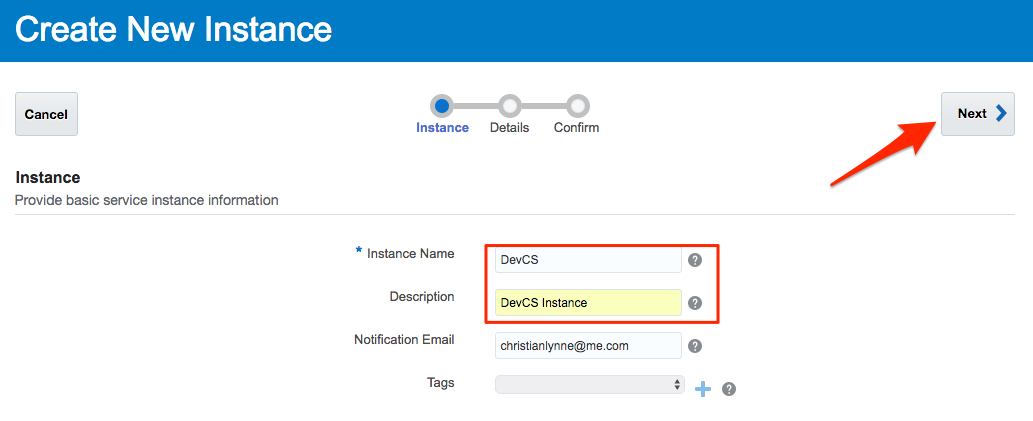
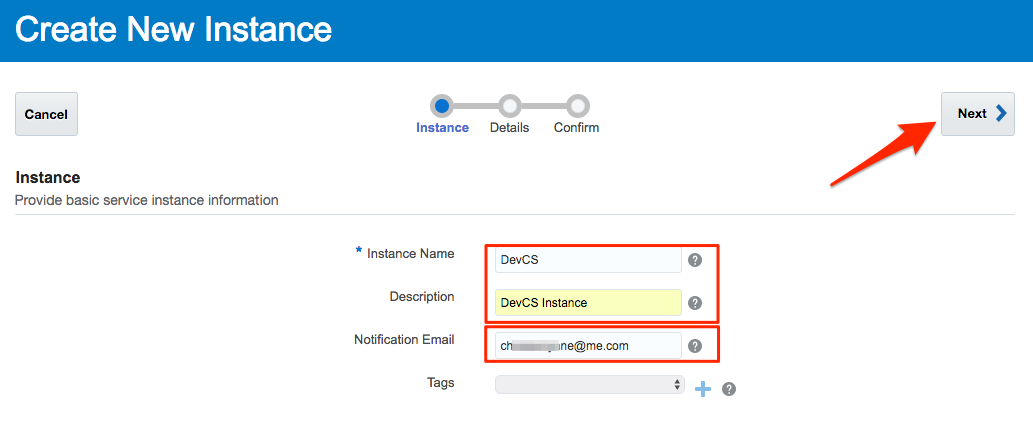
fixing formatting errors

Changed region(s): [[0.4647, 0.772, 0.7125, 0.8646]]

diff --git a/workshops/microservices-devops/CloudNative100SelfService.md b/workshops/microservices-devops/CloudNative100SelfService.md
@@ -73,7 +73,10 @@ Oracle Developer Cloud Service provides a complete development platform that str
 
     ![](images/100/SelfServ06.png)
 
-- Enter `DevCS` for the **Instance Name** and `DevCS Instance` for the **Description**, then click on **Next**.
+- Enter the following:
+    - **Instance Name**: `DevCS`
+    - **Description**: `DevCS Instance`
+    - **Notification Email**: Your account email should automatically show
 
     ![](images/100/SelfServ07.png)
 
@@ -83,15 +86,15 @@ Oracle Developer Cloud Service provides a complete development platform that str
 
     ![](images/100/SelfServ08.png)
 
-- The **DevCS** instance will show a Status of **Creating service...** for several minutes.
+- The **DevCS** instance will show a Status of **Creating service...** for some time as the software/image to support your developer cloud services is being started and configured.
 
     ![](images/100/SelfServ09.png)
 
-- Once the Instance is ready, it will show a **Created On** date. You can periodically click on the refresh icon to refresh the page.
+- Once the Instance is ready, it will show a **Created On** date. You can periodically click on the refresh icon to refresh the page. You can also click on the **Activity** tab to see log information. 
 
     ![](images/100/SelfServ10.png)
 
-- Click on the **Hamburger Menu** to the right of the DevCS Services, and then click on **Access Service Instance** to load the Developer Cloud Service Console. If you happen to receive a message saying that the **Page isn't working**, click on the **Reload** button.
+- Click on the **Hamburger Menu** to the right of the DevCS Services, and then click on **Access Service Instance** to load the Developer Cloud Service Console. If you happen to receive a message saying that the ***Page isn't working***, click on the **Reload** button.
 
     ![](images/100/SelfServ11.png)
 
@@ -141,11 +144,9 @@ In this step you are still assuming the identity of the Project Manager, ***Lisa
 
 ![](images/lisa.png)
 
-- Click **Issues** on left hand navigation panel to display the Track Issues page.
+- Click **Issues** on left hand navigation panel to display the Track Issues page. Click **New Issue**. Enter the following data in the New Issue page and click **Create Issue**.
 
     ![](images/100/Picture100-16.png)
-
-- Click **New Issue**. Enter the following data in the New Issue page and click **Create Issue**.
 
     **Note:** Throughout the lab you will assign your own account as the “physical” owner of the issue, but for the sake of this workshop, **Bala Gupta** will be the “logical” owner of the following issues.
 
@@ -324,7 +325,7 @@ In this step we are going to configure a server that can be used to perform the 
     ![](images/100/SelfServ19.png)
 
 - Return to the tab/window with the **New Configuration** dialog.
-    - In **Field 1. Service ID**, append the "`Storage-`" to the front of the **Cloud Account Name** - e.g. `Storage-myaccountname`.
+    - In **Field 1. Service ID**, ***append*** the word "`Storage-`" to the front of the **Cloud Account Name** - e.g. `Storage-myaccountname`.
     - In **Field 2. User Name**, copy and paste the **Buyer** email address. e.g. `myaccountname@me.com`.
     - In **Field 3. Password**, enter your account Password.
     - In **Field 4. Authorization URL**, copy and past the **Auth V1 Endpoint**
@@ -346,7 +347,7 @@ In this step we are going to configure a server that can be used to perform the 
 
     ![](images/100/SelfServ23.png)
 
-- The following dialog will be displayed, and we will fill in fields **1, 2 and 3** using data from the **Classic Compute** console.
+- The following dialog will be displayed, and we will fill in fields **1, 2, 3 and 4** using data from the **Classic Compute** console.
 
     ![](images/100/SelfServ26.png)
 
@@ -354,6 +355,10 @@ In this step we are going to configure a server that can be used to perform the 
 - We next need to go to the the **Classic Compute** Console. To get to that console, return to the tab/window with the **Storage Classic** dashboard. From that tab/window, click on the **Dashboard** icon on the top right corner of the screen.
 
     ![](images/100/SelfServ24.png)
+
+- From the main dashboard, click on the **Compute Classic** dashboard link.
+
+    ![](images/100/SelfServ41.png)
 
 - Use the information from this screen to fill in the **Configure Compute Account** dialog.
 
@@ -370,7 +375,7 @@ In this step we are going to configure a server that can be used to perform the 
 
 ### **STEP 14**: Create Builder Server Template
 
-- Before we create a New VM for the Build Server, we need to define a template that the build server(s) can use. Click on the **VM Templates** option in the Left Hand menu.
+- Before we create a New VM for the Build Server, we need to define a template that the build server(s) can use. Click on the **VM Templates** option in the Left Hand menu. If the **VM Templates** option _is not visible_, just reload this page.
 
     ![](images/100/SelfServ29.png)
 
@@ -386,7 +391,7 @@ In this step we are going to configure a server that can be used to perform the 
 
     ![](images/100/SelfServ32.png)
 
-- Click on **Node.JS v8.x** from the list of available software to add to this build image template. Notice that along with the version of Node.js that you just added, that this template already includes the **Required Build VM Components**, which includes Git, Java, JUnit, Maven, Ruby and Ant. Click on the **Done** button.
+- Click on **Node.JS v8.x** from the list of available software to add to this build image template. _Double check the version you selected_. Notice that along with the version of Node.js that you just added, that this template already includes the **Required Build VM Components**, which includes Git, Java, JUnit, Maven, Ruby and Ant. Click on the **Done** button.
 
     ![](images/100/SelfServ33.png)
 

diff --git a/workshops/microservices-devops/CloudNative200SelfService.md b/workshops/microservices-devops/CloudNative200SelfService.md
@@ -30,8 +30,9 @@ In the first lab (100), the Project Manager created a new project in the Develop
 
 - This Lab assumes that you just completed Lab 100 and are still connected to the Oracle Cloud, that you're still in the Developer cloud Service Dashboard, and you're viewing the "Alpha Office Product Catalog Project". If for some reason that is not the case, follow the first several Steps of Lab 100 to once again view the Developer Cloud Service Console.
 
-    ![](images/200/Picture10.5.png)  
+    ![](images/200/Picture10.5.2.png)
 
+ 
 - Although you will remain connected to the Oracle Cloud using the user account you were provided, you will take on the Persona of ***Bala Gupta*** as you perform the following steps.
 
     ![](images/bala.png)  
@@ -96,7 +97,15 @@ Now that we have the source code in the Developer Cloud Service managed GIT repo
 
     ![](images/200/Picture20.png)  
 
-- In the New Job popup enter `TwitterFeedBuild` for the Job Name, click on **Create New**, select **OEL7NodeJava** from the Software template, and then click **Create Job**.
+- In the New Job popup enter the following:
+
+    **Job Name**: `TwitterFeedBuild`
+
+    Select **Create New**
+
+     **Software Template**: `OEL7NodeJava`
+
+    click **Create Job**.
 
     ![](images/200/PictureSelfServe01.png)  
 
@@ -112,7 +121,8 @@ Now that we have the source code in the Developer Cloud Service managed GIT repo
 
     ![](images/200/PictureSelfServe04.png)
 
-- Set the **Goals** to `clean assembly:assembly` and click on the **Post Build** tab.
+- Set the **Goals:** `clean assembly:assembly` 
+- Click on the **Post Build** tab.
 
     ![](images/200/PictureSelfServe05.png)
 
@@ -120,9 +130,13 @@ Now that we have the source code in the Developer Cloud Service managed GIT repo
 
     ![](images/200/PictureSelfServe06.png)
 
-- set the **Files to archive** field to `**/target/*`
-- Select **Archive Maven Artifacts**. 
-- Leave **Compression** set to **GZIP**.
+- Enter and set the following:
+
+    **Files to archive**: `**/target/*`
+
+    **Archive Maven Artifacts**. 
+
+    **Compression** set to **GZIP**.
 
     ![](images/200/PictureSelfServe07.png)
 
@@ -130,7 +144,8 @@ Now that we have the source code in the Developer Cloud Service managed GIT repo
 
     ![](images/200/PictureSelfServe08.png)
 
-- Leave the defaults of **Include JUnit XMLs** set to `**/surefire-reports/*.xml` and **Archive Media Files** selected.
+- Leave the defaults of **Include JUnit XMLs** set to: `**/surefire-reports/*.xml`
+- Select **Archive Media Files**.
 
     ![](images/200/PictureSelfServe09.png)
 
@@ -146,7 +161,7 @@ Now that we have the source code in the Developer Cloud Service managed GIT repo
 
     ![](images/200/PictureSelfServe13.png)
 
-- It can take about 15 minutes the first time the build image is used for start and provision the needed software. Once the status changes to **Building**, you can optionally click the **Build Log** button to view the build logs. 
+- It can take about 15 minutes the first time the build image is used, as the image must be started, and then the needed software is provisioned in the image. Once the status changes to **Building**, you can optionally click the **Build Log** button to view the build logs. 
 
     ![](images/200/PictureSelfServe14.png)
 
